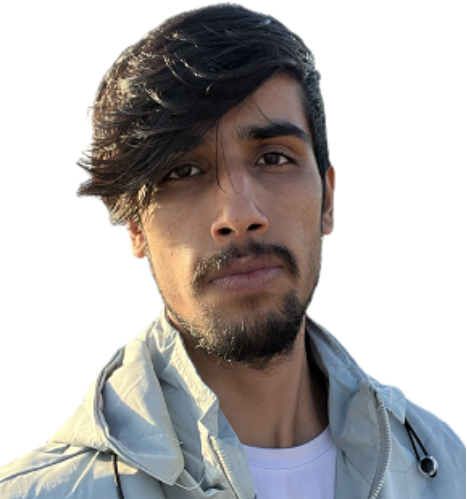
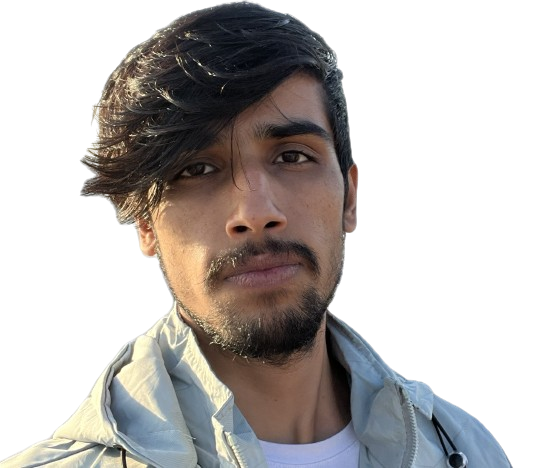
About page design

diff --git a/src/components/Banner.js b/src/components/Banner.js
@@ -1,6 +1,14 @@
 import React from "react";
-import Image from "../assets/aaa.svg"; //importing image
-import { FaGithub, FaYoutube, FaDribbble, FaBlog } from "react-icons/fa";
+import Image from "../assets/ash.png"; //importing image
+import {
+  FaGithub,
+  FaYoutube,
+  FaDribbble,
+  FaBlogger,
+  FaInstagram,
+  FaFacebook,
+  FaLinkedin,
+} from "react-icons/fa";
 import { TypeAnimation } from "react-type-animation";
 import { motion } from "framer-motion";
 import { fadeIn } from "../variants";
@@ -18,7 +26,6 @@ const Banner = () => {
               variants={fadeIn("up", 0.3)}
               initial="hidden"
               whileInView={"show"}
-              viewport={{ once: false, amount: 0.7 }}
               className="text-[55px] font-bold leading-[0.8] lg:text-[110px]"
             >
               ASHISH <span>SAPKOTA</span>
@@ -28,10 +35,9 @@ const Banner = () => {
               variants={fadeIn("up", 0.4)}
               initial="hidden"
               whileInView={"show"}
-              viewport={{ once: false, amount: 0.7 }}
               className="mb-6 text-[36px] lg:text-[60px] font-secondary font-semibold uppercase leading-[1]"
             >
-              <span className="text-white mr-4">I am a</span>
+              <span className="text-white mr-4"></span>
               <TypeAnimation
                 sequence={[
                   "Developer",
@@ -51,7 +57,6 @@ const Banner = () => {
               variants={fadeIn("up", 0.5)}
               initial="hidden"
               whileInView={"show"}
-              viewport={{ once: false, amount: 0.7 }}
               className="mb-8 max-w-lg mx-auto lg:mx-0"
             >
               THis is a personal portfolio website with number of services. this
@@ -62,7 +67,6 @@ const Banner = () => {
               variants={fadeIn("up", 0.6)}
               initial="hidden"
               whileInView={"show"}
-              viewport={{ once: false, amount: 0.7 }}
               className="flex max-w-max gap-x-6 items-center mb-12 mx-auto lg:mx-0"
             >
               <button className="btn btn-lg">Contat me</button>
@@ -71,7 +75,12 @@ const Banner = () => {
               </a>
             </motion.div>
 
-            <div className="flex text-[20px] gap-x-6 max-w-max mx-auto lg:mx-0">
+            <motion.div
+              variants={fadeIn("up", 0.7)}
+              initial="hidden"
+              whileInView={"show"}
+              className="flex text-[20px] gap-x-6 max-w-max mx-auto lg:mx-0"
+            >
               <a href="#">
                 <FaYoutube />
               </a>
@@ -81,12 +90,30 @@ const Banner = () => {
               <a href="#">
                 <FaDribbble />
               </a>
-            </div>
+              <a href="#">
+                <FaBlogger />
+              </a>
+              <a href="#">
+                <FaInstagram />
+              </a>
+              <a href="#">
+                <FaFacebook />
+              </a>
+              <a href="#">
+                <FaLinkedin />
+              </a>
+            </motion.div>
           </div>
 
-          <div className="hidden lg:flex flex-1 max-w-[320px] lg:max-w-[428px]">
+          <motion.div
+            variants={fadeIn("down", 0.5)}
+            initial="hidden"
+            whileInView={"show"}
+            viewport={{ once: false, amount: 0.7 }}
+            className="hidden lg:flex flex-1 max-w-[320px] lg:max-w-[428px]"
+          >
             <img src={Image} alt="aa" />
-          </div>
+          </motion.div>
         </div>
       </div>
     </section>

diff --git a/src/components/Nav.js b/src/components/Nav.js
@@ -1,40 +1,66 @@
-import React from 'react';
-import {BiHomeAlt, BiUser} from 'react-icons/bi';
-import {BsClipboardData, BsBriefcase, BsChatSquare} from 'react-icons/bs';
-import {Link} from 'react-scroll';
+import React from "react";
+import { BiHomeAlt, BiUser } from "react-icons/bi";
+import { BsClipboardData, BsBriefcase, BsChatSquare } from "react-icons/bs";
+import { Link } from "react-scroll";
 const Nav = () => {
-  return(
-      <nav className='fixed bottom-2 lg:bottom-8 w-full overflow-hidden z-50'>
-        <div className='container mx-auto'>
-
-        <div className='w-full bg-black/20 h-[96px] backdrop-blur-2xl rounded-full max-w-[460px] mx-auto px-5 flex  justify-between items-center text-2xl text-white/50'>
-
-          <Link to ='home' activeClass='active' smooth={true} spy={true} offset={-200} className='cursor-pointer w-[60px] h-[60px] flex items-center justify-center' >
-          <BiHomeAlt/>
+  return (
+    <nav className="fixed bottom-2 lg:bottom-8 w-full overflow-hidden z-50">
+      <div className="container mx-auto">
+        <div className="w-full bg-black/20 h-[96px] backdrop-blur-2xl rounded-full max-w-[460px] mx-auto px-5 flex  justify-between items-center text-2xl text-white/50">
+          <Link
+            to="home"
+            activeClass="active"
+            smooth={true}
+            spy={true}
+            offset={-200}
+            className="cursor-pointer w-[60px] h-[60px] flex items-center justify-center"
+          >
+            <BiHomeAlt />
           </Link>
 
-          <Link to ='about' activeClass='active' smooth={true} spy={true} offset={-200} className='cursor-pointer w-[60px] h-[60px] flex items-center justify-center'>
-          <BiUser/>
+          <Link
+            to="about"
+            activeClass="active"
+            smooth={true}
+            spy={true}
+            className="cursor-pointer w-[60px] h-[60px] flex items-center justify-center"
+          >
+            <BiUser />
           </Link>
 
-          <Link to ='services'  activeClass='active' smooth={true} spy={true} offset={-200} className='cursor-pointer w-[60px] h-[60px] flex items-center justify-center'>
-          <BsClipboardData/>
+          <Link
+            to="services"
+            activeClass="active"
+            smooth={true}
+            spy={true}
+            className="cursor-pointer w-[60px] h-[60px] flex items-center justify-center"
+          >
+            <BsClipboardData />
           </Link>
 
-          <Link to ='work' activeClass='active' smooth={true} spy={true} offset={-200} className='cursor-pointer w-[60px] h-[60px] flex items-center justify-center'>
-          <BsBriefcase/>
+          <Link
+            to="work"
+            activeClass="active"
+            smooth={true}
+            spy={true}
+            className="cursor-pointer w-[60px] h-[60px] flex items-center justify-center"
+          >
+            <BsBriefcase />
           </Link>
 
-          <Link to ='contact' activeClass='active' smooth={true} spy={true} offsset={-200} className='cursor-pointer w-[60px] h-[60px] flex items-center justify-center'>
-          <BsChatSquare/>
+          <Link
+            to="contact"
+            activeClass="active"
+            smooth={true}
+            spy={true}
+            className="cursor-pointer w-[60px] h-[60px] flex items-center justify-center"
+          >
+            <BsChatSquare />
           </Link>
-
-          </div>
         </div>
-      </nav>
-
-  ) 
-  
+      </div>
+    </nav>
+  );
 };
 
 export default Nav;

diff --git a/src/components/About.js b/src/components/About.js
@@ -1,7 +1,76 @@
-import React from 'react';
+import React from "react";
+import CountUp from "react-countup"; // countup
+import { useInView } from "react-intersection-observer"; // intersection observer
+import { motion } from "framer-motion"; //motion
+import { fadeIn } from "../variants"; //variants
 
 const About = () => {
-  return <div id='about' >About</div>;
+  const [ref, inView] = useInView({
+    threshold: 0.5,
+  });
+
+  return (
+    <section className="section" id="about" ref={ref}>
+      <div className="container mx-auto">
+        <div className="flex flex-col gap-y-10 lg:flex-row lg:items-center">
+          <div className="flex-1 bg-about bg-contain bg-no-repeat h-[640px] mix-blend-lighten bg-top"></div>
+          <div className="flex-1">
+            <h2 className="h2 text-accent">Who am I ?</h2>
+            <h3 className="h3 mb-4">
+              I'm a tech enthusiast, freelance web developer with over 3 years
+              of experience. I am also a content writer and a project manager by
+              profession with more than 2 year of experience in the field.
+            </h3>
+            <p className="mb-6">
+              thish is a paragrara I'm a tech enthusiast, freelance web
+              developer with over 3 years of experience. I am also a content
+              writer and a project manager by profession with more than 2 year
+              of experience in the field. ag
+            </p>
+
+            <div className="flex gap-x-6 lg:gap-x-10 mb-12">
+              <div>
+                <div className="text-[40px] font-tertiary text-gradient mb-2">
+                  {inView ? <CountUp start={0} end={13} duration={3} /> : null}
+                </div>
+                <div className="font-primary text-sm tracking-[2px]">
+                  Years of <br />
+                  Experience
+                </div>
+              </div>
+              <div>
+                <div className="text-[40px] font-tertiary text-gradient mb-2">
+                  {inView ? <CountUp start={0} end={13} duration={3} /> : null}
+                </div>
+                <div className="font-primary text-sm tracking-[2px]">
+                  Projects <br />
+                  Completed
+                </div>
+              </div>
+              <div>
+                <div className="text-[40px] font-tertiary text-gradient mb-2">
+                  {inView ? <CountUp start={0} end={13} duration={3} /> : null}
+                  k+
+                </div>
+                <div className="font-primary text-sm tracking-[2px]">
+                  Satisfied <br />
+                  Clients
+                </div>
+              </div>
+            </div>
+
+            <div className="flex gap-x-8 items-center">
+              <button className="btn btn-lg"> Contact Me</button>
+              <a href="#" className="text-gradient btn-link">
+                {" "}
+                My Portfolio
+              </a>
+            </div>
+          </div>
+        </div>
+      </div>
+    </section>
+  );
 };
 
 export default About;
